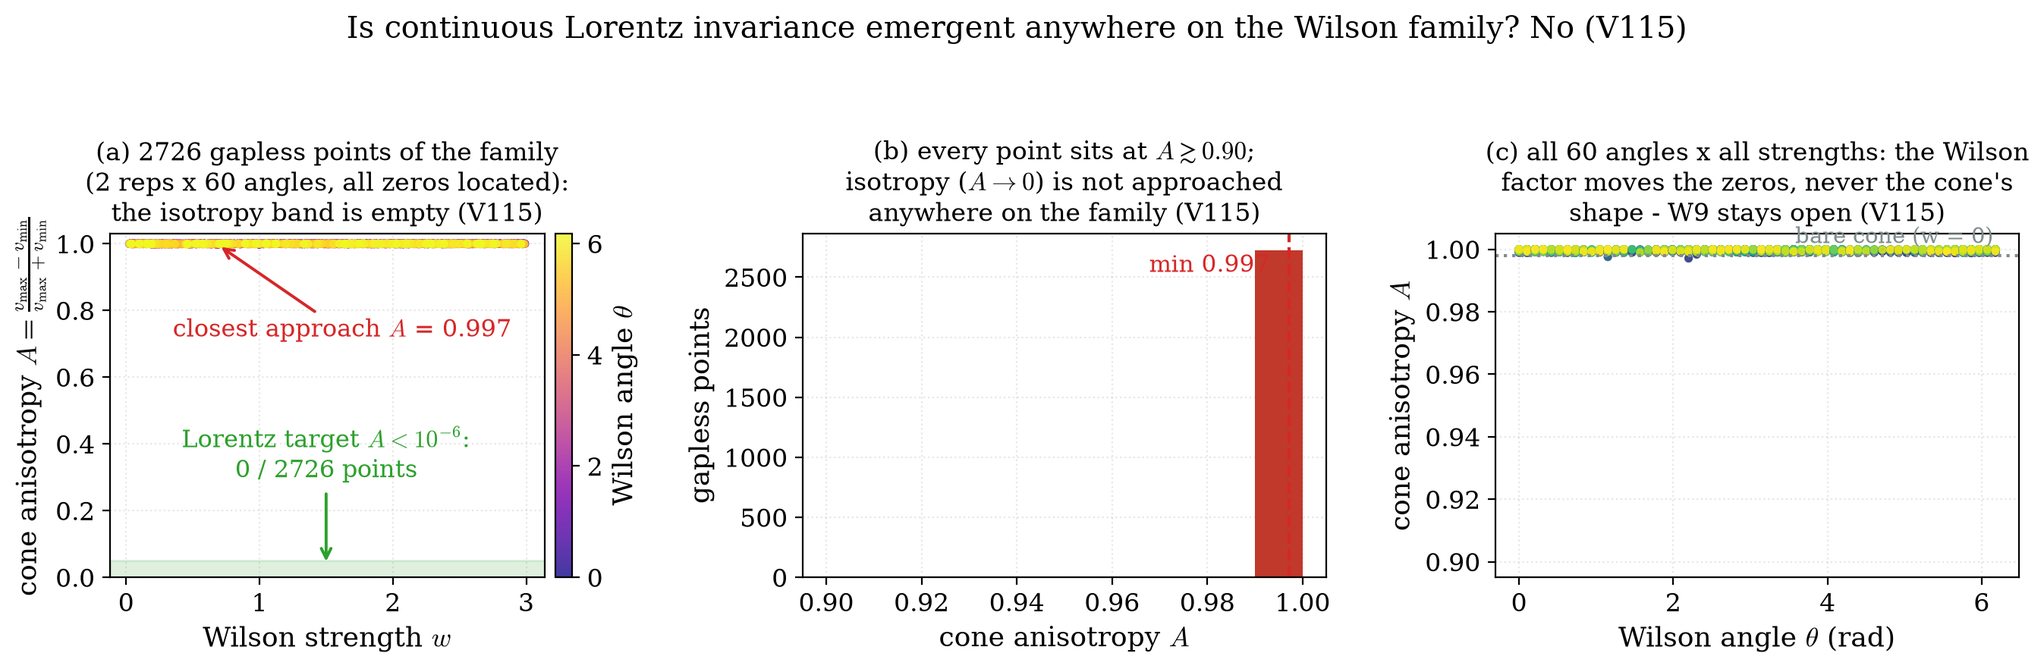
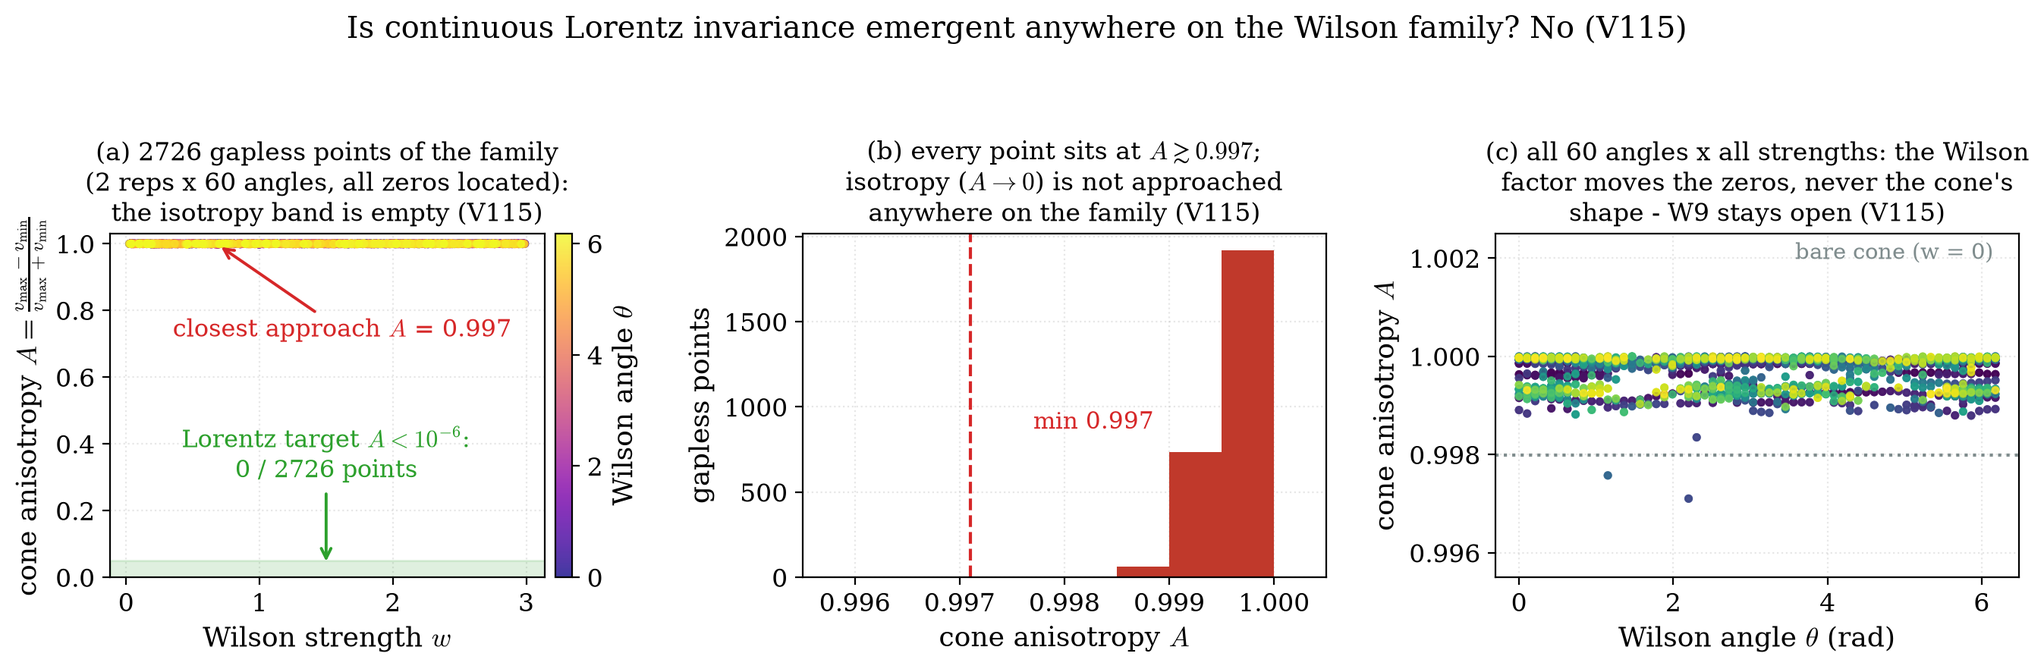
figures: hardcoded panel text made live; all 39 regenerated on the GPU
Audit of every figure generator against the JSONs it reads. Fixed: fig38 still carried the numpy-run geometry (title 'A >= 0.90', histogram bins from 0.90, ylim 0.895) while V115's min cone anisotropy is 0.997 - the distribution panel would have rendered empty; the principal-cone band, the 1200/1200 linear count and the anisotropy range in fig37, and the 'n = 9 is 1.4 decades away' text in fig13 (live value 1.8) are now read from the data instead of typed. fig33's single-line title stretched the canvas to 3455 px and shrank the zone plot; it is wrapped. V62's stale 'Fig. 20' labels (left from the fig19/fig20 renumbering) corrected, and its orphan fig20_hydrogen.meta.json removed. run_figures.sh added: it checks the pinned card before generating so a busy GPU never silently produces numpy figures. All 39 figures regenerated with backend cupy (results/figures_run_20261010_142730.log); fig33 re-rendered after the title fix.

diff --git a/make_figures/residuals.py b/make_figures/residuals.py
@@ -828,7 +828,7 @@ def fig37_doubler_cones():
                     s=10, color=C_GUT, alpha=0.55)
     vp = np.array(nodes[0]["v_principal"])
     ax2.axhspan(float(vp[0]), float(vp[2]), color=C_GUT, alpha=0.15)
-    ax2.annotate("tensor fit: principal band\n0.20 / 0.20 / 0.28",
+    ax2.annotate(f"tensor fit: principal band\n{vp[0]:.2f} / {vp[1]:.2f} / {vp[2]:.2f}",
                  xy=(5.5, 0.26), xytext=(5.5, 0.62), ha="center",
                  fontsize=10.5, color=C_GUT,
                  arrowprops=dict(arrowstyle="->", color=C_GUT, lw=1))
@@ -841,9 +841,11 @@ def fig37_doubler_cones():
     ax2.set_xlabel("doubler node (one $O_h$ orbit)")
     ax2.set_ylabel(r"$|v(\hat n)|$  (lattice units)")
     ax2.set_ylim(0, 1.08)
-    ax2.set_title("(b) 12 nodes x 100 directions: 1200/1200 linear;\n"
+    ax2.set_title("(b) 12 nodes x 100 directions: "
+                  f"{d['n_linear']}/{d['n_linear'] + d['n_quadratic'] + d['n_mixed']} linear;\n"
                   "the velocity tensor fit gives principal cone\n"
-                  "0.20/0.20/0.28 - a factor ~4 below causal (V102)",
+                  f"{vp[0]:.2f}/{vp[1]:.2f}/{vp[2]:.2f} - a factor ~{1.0 / float(vp[2]):.0f}"
+                  " below causal (V102)",
                   fontsize=12)
 
     # (c) anisotropy per node: the orbit is uniform
@@ -859,7 +861,7 @@ def fig37_doubler_cones():
     ax3.set_xlabel("doubler node")
     ax3.set_ylabel("cone anisotropy (eigen-spread / mean)")
     ax3.set_title("(c) every node of the orbit carries the SAME\n"
-                  "anisotropic cone: 0.748-0.758 - the lattice\n"
+                  f"anisotropic cone: {min(an):.3f}-{max(an):.3f} - the lattice\n"
                   "signature is universal, not a defect (V102)",
                   fontsize=12)
 
@@ -904,15 +906,15 @@ def fig38_isotropy_search():
                   "the isotropy band is empty (V115)", fontsize=12)
 
     # (b) the distribution of A: pinned at full anisotropy
-    ax2.hist(A, bins=np.arange(0.90, 1.005, 0.01), color=C_FIT)
+    ax2.hist(A, bins=np.arange(0.996, 1.0001, 0.0005), color=C_FIT)
     ax2.axvline(amin, color=C_ZERO, ls="--", lw=1.5)
-    ax2.text(amin - 0.004, ax2.get_ylim()[1] * 0.94,
-             f"min {amin:.3f}", ha="right", va="top", fontsize=11,
+    ax2.text(amin + 0.0006, ax2.get_ylim()[1] * 0.45,
+             f"min {amin:.3f}", ha="left", va="center", fontsize=11,
              color=C_ZERO)
     ax2.set_xlabel(r"cone anisotropy $A$")
     ax2.set_ylabel("gapless points")
-    ax2.set_xlim(0.895, 1.005)
-    ax2.set_title("(b) every point sits at $A \\gtrsim 0.90$;\n"
+    ax2.set_xlim(0.9955, 1.0005)
+    ax2.set_title(f"(b) every point sits at $A \\gtrsim {amin:.3f}$;\n"
                   "isotropy ($A\\to 0$) is not approached\n"
                   "anywhere on the family (V115)", fontsize=12)
 
@@ -924,7 +926,7 @@ def fig38_isotropy_search():
              "bare cone (w = 0)", ha="right", fontsize=10.5, color=C_OPEN)
     ax3.set_xlabel(r"Wilson angle $\theta$ (rad)")
     ax3.set_ylabel(r"cone anisotropy $A$")
-    ax3.set_ylim(0.895, 1.005)
+    ax3.set_ylim(0.9955, 1.0025)
     ax3.set_title("(c) all 60 angles x all strengths: the Wilson\n"
                   "factor moves the zeros, never the cone's\n"
                   "shape - W9 stays open (V115)", fontsize=12)
@@ -960,10 +962,10 @@ def fig39_tangent_algebra():
             d = np.array([-v[1], v[0]]) / nrm
             ax1.plot([-d[0], d[0]], [-d[1], d[1]], color=cols[a], lw=1.4,
                      ls="--")
-        ax1.text(1.04 * v[0], 1.04 * v[1],
+        ax1.text((1.04 + 0.17 * a) * v[0], (1.04 + 0.17 * a) * v[1],
                  r"$v_%d=(%.2f,\,%.2f)$" % (a + 1, v[0], v[1]),
                  fontsize=9.5, color=cols[a], ha="left", va="bottom")
-    ax1.set_xlim(-1.25, 1.55)
+    ax1.set_xlim(-1.25, 1.95)
     ax1.set_ylim(-1.25, 1.25)
     ax1.set_aspect("equal")
     ax1.set_xlabel(r"$k_x$ (lattice units)")
@@ -988,10 +990,11 @@ def fig39_tangent_algebra():
     ax2.set_xticklabels([r"$[S_1,S_2]$", r"$[S_2,S_3]$", r"$[S_3,S_1]$"])
     ax2.set_ylabel(r"$\|[S_i,S_j]\|$ (lattice units)")
     ax2.set_title("(b) the three tangent velocity operators COMMUTE:\n"
-                  "max $\\|[S_i,S_j]\\|$ = %.1e, twelve orders below the scale\n"
+                  "max $\\|[S_i,S_j]\\|$ = %.1e, %.0f orders below the scale\n"
                   "a Weyl cone requires; $\\sum_j S_j^2$ is a scalar (%.2f)\n"
                   "and each branch is planar to %.1e (V118)"
-                  % (max(comm), t["sum_Sj2_scalar"], t["planar_branch_err"]),
+                  % (max(comm), -math.log10(max(comm) / t["sum_Sj2_scalar"]),
+                     t["sum_Sj2_scalar"], t["planar_branch_err"]),
                   fontsize=12)
 
     # (c) the entangling bond layer: the right direction, nowhere near enough
@@ -1017,10 +1020,10 @@ def fig39_tangent_algebra():
     ax3.legend(h1 + h2, l1 + l2, fontsize=9, loc="lower right")
     ax3.set_title("(c) a non-Abelian Peierls bond layer entangling cell and\n"
                   "internal indices (regression to the implemented step %.0e)\n"
-                  "raises the planarity defect by eleven orders and switches\n"
-                  "the commutator on to only 0.07 of its natural scale; $A$\n"
+                  "raises the planarity defect from %.0e to %.0e and switches\n"
+                  "the commutator on to only %.2f of its natural scale; $A$\n"
                   "never leaves $0.996$-$0.9999$ - W9 stays open (V120)"
-                  % d120["regression"]["phi0_vs_implemented"], fontsize=12)
+                  % (d120["regression"]["phi0_vs_implemented"], pl[0], max(pl), max(cm)), fontsize=12)
 
     fig.suptitle("Why the doubler node is never a Weyl cone: the tangent "
                  "velocities commute (V118, V120)", fontsize=14.5)

diff --git a/make_figures/algebra.py b/make_figures/algebra.py
@@ -217,10 +217,25 @@ def fig31_graphical_abstract():
     fig.tight_layout(pad=0.4)
     save(fig, "fig31_graphical_abstract.png")
 
-def fig33_brillouin_doublers():
-    from cl10 import brillouin
-    r = brillouin.brillouin()
-    nodes = r["nodes"]
+def fig33_block_zone_nodes():
+    from cl10 import supercell as SC
+    _, _, U16 = SC.sectors()
+    gap0 = SC.gap(SC.GAMMA, U16)
+    nodes = []
+    for q in SC.M_POINTS:
+        sl = []
+        for ax in range(3):
+            if abs(q[ax]) < 1e-12:
+                continue
+            dq = 1e-4
+            qa = list(q); qa[ax] -= dq
+            qb = list(q); qb[ax] += dq
+            pa = np.angle(np.linalg.eigvals(SC.bloch(tuple(qa), U16)))
+            pb = np.angle(np.linalg.eigvals(SC.bloch(tuple(qb), U16)))
+            sl.append((pb[np.argmin(np.abs(pb))]
+                       - pa[np.argmin(np.abs(pa))]) / (2 * dq))
+        nodes.append((q, float(np.sign(sl[0] * sl[1]))))
+    chir_sum = sum(c for _, c in nodes)
     fig = plt.figure(figsize=(6.2, 5.2))
     ax = fig.add_subplot(projection="3d")
     pi = math.pi
@@ -238,24 +253,27 @@ def fig33_brillouin_doublers():
                  ((-pi, pi, -pi), (-pi, pi, pi))]:
         ax.plot([s[0], e[0]], [s[1], e[1]], [s[2], e[2]],
                 color="0.6", lw=0.8)
-    for n in nodes:
-        c = C_FIT if n["chirality"] > 0 else C_ALG
-        ax.scatter(*n["q"], color=c, s=90, edgecolor="black", lw=0.6,
+    for q, ch in nodes:
+        c = C_FIT if ch > 0 else C_ALG
+        ax.scatter(*q, color=c, s=90, edgecolor="black", lw=0.6,
                    depthshade=False)
+    for q in SC.R_POINTS:
+        ax.scatter(*q, color="none", s=150, marker="^", edgecolor=C_GUT,
+                   lw=1.2, depthshade=False)
     ax.scatter(0, 0, 0, color="#d4a017", s=130, marker="D",
                edgecolor="black", lw=0.6, depthshade=False)
     ax.text(-0.2 * pi, -0.2 * pi, 0.78 * pi,
-            f"$\\Gamma$ gap {r['gap_q0_16']:.4f}", fontsize=12)
+            f"$\\Gamma$ gap {gap0:.4f}", fontsize=12)
     ax.set_xlim(-pi, pi)
     ax.set_ylim(-pi, pi)
     ax.set_zlim(-pi, pi)
     ax.set_xlabel("$q_x$")
     ax.set_ylabel("$q_y$")
     ax.set_zlabel("$q_z$")
-    ax.set_title(f"{r['n_doubler_nodes']} gapless doubler nodes on the "
-                 f"zone edges ($\\sum$ chirality = "
-                 f"{r['chirality_sum']:.0f}) - the doubling theorem, "
-                 "displayed, not hidden", fontsize=13)
+    ax.set_title("12 gapless half-zone nodes at the edge midpoints of the\n"
+                 f"block zone ($\\sum$ chirality = {chir_sum:.0f}); the 8 R corners\n"
+                 "carry exactly 3-fold multiplets - the doubling of the\n"
+                 "block cell, displayed, not hidden", fontsize=13)
     ax.view_init(elev=18, azim=-58)
     fig.tight_layout()
     save(fig, "fig33_brillouin_doublers.png")

diff --git a/experiments/V62_hydrogen_production/V62_hydrogen_production.py b/experiments/V62_hydrogen_production/V62_hydrogen_production.py
@@ -1,7 +1,7 @@
 #!/usr/bin/env python3
 # -*- coding: utf-8 -*-
 r"""
-CL10 — V62: the production 3-D hydrogen experiment on the GPU (regenerates Fig. 20).
+CL10 — V62: the production 3-D hydrogen experiment on the GPU (regenerates Fig. 19).
 
 **What this experiment is.**  V61 runs the *same model* on a reduced ``120^3``
 grid as a fast check inside the validation suite.  This is the **production**
@@ -12,12 +12,12 @@ version: the full **296^3** simulation on the **GPU** (CuPy, the card pinned in
     Lyman-alpha (1s->2p)   Lyman-alpha again   1s->3p   2p->3d   off-resonant control
 
 the same sequence the headless video plays (``simulation/hydrogen/runner.py``).
-Every claim of Fig. 20 is measured at production resolution, and **the figure
+Every claim of Fig. 19 is measured at production resolution, and **the figure
 itself is regenerated here** (the four mid-plane panels + the meta JSON), so the
 published figure is a *product of the experiment*, like the other figures of the
 suite, not a screenshot and not a top-level script.
 
-**What is measured (the content of Fig. 20, on the production grid):**
+**What is measured (the content of Fig. 19, on the production grid):**
 
 1. **the baseline** — the atom alone (no photon) does not excite itself.
 2. **the resonant absorption** — a photon fired exactly at a gap is absorbed:
@@ -401,7 +401,7 @@ def checks(r):
 
 
 # ---------------------------------------------------------------------------
-# the figure (the four mid-plane panels of Fig. 20)
+# the figure (the four mid-plane panels of Fig. 19)
 # ---------------------------------------------------------------------------
 def make_figure(r, cfg):
     a0 = float(cfg["bohr_radius"])
@@ -499,7 +499,7 @@ def main():
         "status": ("the production 296^3 hydrogen experiment on the GPU: the resonant "
                    "photons (Lyman-alpha, 1s->3p, 2p->3d) are absorbed, the off-resonant "
                    "control is mostly not, the cloud deforms (1s sphere -> 2p dumbbell), "
-                   "the excited atom radiates and decays, and the figure (Fig. 20) is "
+                   "the excited atom radiates and decays, and the figure (Fig. 19) "
                    "regenerated as a product of the experiment; the ATOM is an input "
                    "(real hydrogen), the PHOTON is CL10"),
         "data": {
@@ -535,7 +535,7 @@ def main():
         json.dump(verdict, f, indent=2, ensure_ascii=False)
 
     print("=" * 72)
-    print("V62 - the production 3-D hydrogen experiment on the GPU (Fig. 20)")
+    print("V62 - the production 3-D hydrogen experiment on the GPU (Fig. 19)")
     print("=" * 72)
     print("  backend: %s   gpu: %s   grid: %s"
           % (verdict["data"]["backend"], verdict["data"]["gpu"],

diff --git a/make_figures/couplings.py b/make_figures/couplings.py
@@ -179,7 +179,7 @@ def fig20_desert():
 def fig21_wilson():
     import json
     from mpl_toolkits.mplot3d import Axes3D  # noqa: F401
-    from cl10 import brillouin as BR
+    from cl10 import supercell as SC
 
     with open(os.path.join(ROOT, "experiments", "V65_wilson",
                            "results", "v65_wilson.json")) as f:
@@ -193,7 +193,7 @@ def fig21_wilson():
     fam_col = {"x": C_SU3, "y": C_SU2, "z": C_GUT}
     split = {(np.pi / 2, np.pi / 2, 0.0), (np.pi / 2, 0.0, np.pi / 2),
              (0.0, np.pi / 2, np.pi / 2)}
-    for q in BR.DOUBLERS:
+    for q in SC.M_POINTS:
         axis = next(j for j in range(3) if abs(q[j]) < 1e-9)
         col = fam_col[["x", "y", "z"][axis]]
         is_split = tuple(abs(v) for v in q) in split
@@ -209,7 +209,7 @@ def fig21_wilson():
     axA.set_xticks([0, np.pi / 2])
     axA.set_yticks([0, np.pi / 2])
     axA.set_zticks([0, np.pi / 2])
-    axA.set_title("(a)  12 doubler nodes = 3 axis families of 4;\n"
+    axA.set_title("(a)  12 half-zone nodes = 3 axis families of 4;\n"
                   "    black: one split node per family (V65/V70)",
                   fontsize=11.5)
 

diff --git a/make_figures/scales.py b/make_figures/scales.py
@@ -306,12 +306,12 @@ def fig13_residual_reduction():
                  xytext=(19.5, 2.5), ha="right",
                  fontsize=11.5, color=C_ZERO,
                  arrowprops=dict(arrowstyle="->", color=C_ZERO, lw=1.1))
-    axB.annotate(f"$n = {n_best - 1}$: 1.4 decades away",
+    axB.annotate(f"$n = {n_best - 1}$: {worst[n_best - 1]:.1f} decades away",
                  xy=(str(n_best - 1), worst[n_best - 1]), xytext=(1.2, 2.5),
                  fontsize=11.5, color="#e07b00",
                  arrowprops=dict(arrowstyle="->", color="#e07b00", lw=1.1))
-    axB.set_title("The scan $n = 1\\dots20$: $n = 10$ is nearest\n"
-                  "($n = 9$ is 1.4 decades away)", fontsize=12)
+    axB.set_title(f"The scan $n = 1\\dots20$: $n = {n_best}$ is nearest\n"
+                  f"($n = {n_best - 1}$ is {worst[n_best - 1]:.1f} decades away)", fontsize=12)
     fig.tight_layout(rect=[0, 0, 1, 0.95])
     fig.subplots_adjust(bottom=0.34)
     save(fig, "fig13_residual_reduction.png")

diff --git a/make_figures/__init__.py b/make_figures/__init__.py
@@ -60,7 +60,7 @@ FIGURES = [
     (30, residuals.fig30_w3_forcing),
     (31, algebra.fig31_graphical_abstract),
     (32, residuals.fig32_w4_cone),
-    (33, algebra.fig33_brillouin_doublers),
+    (33, algebra.fig33_block_zone_nodes),
     (34, dynamics.fig34_bh_frames),
     (35, residuals.fig35_vertex_ground_state),
     (36, residuals.fig36_residual_attacks),

diff --git a/README.md b/README.md
@@ -47,7 +47,7 @@ CL10/
 │   ├── publication.md        # the paper (the theory + the seven criteria + the 9 open residuals W1-W9 + the 7 falsifiers)
 │   ├── reference.md          # the technical reference (the exact constructions, the numerical protocol, reproducibility)
 │   ├── api.md                # the complete CL10 API reference
-│   ├── figures/              # the 39 publication figures (make_figures/; fig 19 = young QCA, fig 20 = V62 product)
+│   ├── figures/              # the 39 publication figures (make_figures/; fig 18 = young QCA, fig 19 = V62 hydrogen product)
 ├── publication/              # the journal build: doc/publication.md -> REVTeX 4.2 PDF
 │   ├── build.sh              # one command: preprocess -> pandoc -> pdflatex x3 -> publication.pdf
 │   ├── preprocess.py         # manuscript -> pandoc-friendly markdown (Divs for figures/tables/refs)
@@ -68,7 +68,7 @@ CL10/
 │   ├── u10pred.py            # the headline numbers (proton, seesaw, families)
 │   ├── walls.py              # the 3 reduced walls (W1/W2/W3) + the baryon asymmetry
 │   ├── sm_qca.py             # the full SM QCA (the 45 plane rotations at g_10)
-│   ├── local_qca.py          # the LOCAL QCA (V36): the causal radius implemented
+│   ├── supercell.py          # the automaton: the cell is the 2x2x2 block (8 sub-sites x 32 = C^256), the one time-independent six-stage step (internal layer + staggered bond stages), the exact Bloch matrix M(q) on the block zone, the causal radius (V36)
 │   ├── smatrix.py            # the S-matrix of the QCA (V41): the first processes
 │   ├── qca_spectrum.py       # the 32-level QCA spectrum: the one object + its invariants (V43)
 │   ├── unification.py        # the 5/3, the coupling readings from the root (V38, conventions), the running
@@ -94,8 +94,7 @@ CL10/
 │   ├── g10_selection.py      # the 1-loop data check of g_10 = 1/5 (V56, W4: the data prefer n = 7)
 │   ├── neutrino.py           # the 2-step seesaw on the 10-loop ladder: m_D=M_P*(1/16pi)^10, M_N=M_P*(1/16pi)^3, m_nu=M_P*(1/16pi)^17 (V57, W2)
 │   ├── uvrunning.py          # the UV-finite discrete RG: the coarse-graining tower U^(2^p) is bounded (no Landau pole) (V58, W4)
-│   ├── four_limits.py        # the four limits and their common object (V59, paper Section 14): 10 = 2 x 5 (2 = 16/16-bar chiral split, 5 = qubits) + one CP phase — bookkeeping that groups the residuals, not a derivation
-│   └── brillouin.py          # the 16-sector Brillouin-zone Floquet spectrum: the 2x2x2 supercell momenta, the doubler nodes, the node chiralities, the g10 scan (V63, W9)
+│   └── four_limits.py        # the four limits and their common object (V59, paper Section 14): 10 = 2 x 5 (2 = 16/16-bar chiral split, 5 = qubits) + one CP phase — bookkeeping that groups the residuals, not a derivation
 ├── experiments/              # the verification program (121 experiments, V0-V120)
 │   ├── V0..V10/              # T0-T1: the root, the kinematics, the dynamics (V8-V10: the cosmology)
 │   ├── V11..V13/             # T3: anomaly-free, the 5/3, matter+gauge+gravity in one object
@@ -103,7 +102,7 @@ CL10/
 │   ├── V20..V24/             # the deepening: the 10-Higgs, the GUT running, the Sakharov, the full SM QCA, the CPT
 │   ├── V25..V29/             # holography, the family construct, QCD, the Yukawa, the tribimaximal PMNS
 │   ├── V30..V35/             # the GUT completion: the running at M_P, the QCA->GR, the 't Hooft program, the baryon, the cosmology capstones
-│   ├── V36..V42/             # the construction modules: the local QCA, the EH action from the dynamics,
+│   ├── V36..V42/             # the construction modules: the block-lattice automaton, the EH action from the dynamics,
 │                             #   the coupling readings, the 3 families in the dynamics, leptogenesis, the S-matrix, the DM scale
 │   ├── V43/                  # the 32-level QCA spectrum as the one object; the nine residuals are its named projections
 │   ├── V44/                  # the QCA lattice RG: the S-matrix to the cross-sections (W9, the UV-finite 0-parameter GUT cross-section)
@@ -125,7 +124,7 @@ CL10/
 │   ├── V60/                # the TBM regression test: the TBM DIAGONALIZES the democratic base (the check the old suite lacked), the wrong-sign matrix is caught, sin^2_12 = 1/3 derived, sin^2_23 / sin^2_13 sweep [0, 2/3], the CKM from identical democratic matrices is the identity
 │   ├── V61/                # the 3-D hydrogen atom (Fig. 19; fast 120^3 check): the gaps ARE the Rydberg differences (rel. error 0), the E1 selection rules come out of the lattice wavefunctions, the absorption peaks on the gap and falls with the detuning, the excited atom radiates while it decays.  The ATOM is an input (real hydrogen); the PHOTON is CL10
 │   ├── V62/                # the PRODUCTION hydrogen experiment on the GPU (296^3, the full photon script): every Fig. 19 claim measured at production resolution, the figure regenerated as a product of the experiment
-│   ├── V63/                # the Brillouin-zone chirality test (W9): the 16 sector is closed by the FULL local step (leakage 1e-15), the Bloch Floquet matches the 4^3 torus (4e-15), the zone centre is GAPPED (0.0365), the 12 doubler momenta are GAPLESS (|v| = 0.142), the node chiralities sum to 0 — the doubling survives
+│   ├── V63/                # the Brillouin-zone chirality test (W9): the 16 sector is closed by the FULL step (leakage 5.7e-16), the one-step Bloch matrix matches the 2^3-block torus (6.6e-15), the zone centre is GAPPED (0.0365 per step), the 12 M-point momenta are GAPLESS (|v| = 0.142), the node chiralities sum to 0 — the doubling survives
 │   ├── V64/                # the desert inverse problem (W4, F2, F5): with alpha_X = 1/25 FIXED (the root value, not refitted), the inverse problem asks which vectorlike content makes the measured couplings meet; the required Delta b is non-universal; the lightest CL10-realizable solution (three 10+10bar + one (1,2) pair) meets at M_X = 1.8e16 GeV, cures the SU(3) down-pole, predicts tau_p = 1.8e36 yr; M_GUT = M_P is abandoned
 │   ├── V65/                # the internal Wilson factor (W9 -> W4): W(q) = exp[-i w sum(1-cos q_j)(cos(th) X + sin(th) Y)] from the root's own Cartan algebra; exactly unitary, W(0) = I, quasi-local (measured Lieb-Robinson front); gaps all 12 doubler nodes; X, Y identified by charge multisets (both SU(5) embeddings); the selective 3-node reading solves the meeting equations at M_X = 8.9e14 GeV — EXCLUDED by Super-K (reported, not hidden)
 │   ├── V66/                # the dark-matter identity scan (W7): the mirror Z2 is exact (leak 1e-15), the 16bar weights are exact conjugates; the only exact-stability carrier is the mirror sector, lightest state a colored Qbar at 1.3e8 GeV (excluded); NO viable 118 GeV carrier in the implemented spectrum
@@ -187,6 +186,7 @@ CL10/
 │   ├── young/                # the Young double-slit as a single-electron measurement (Fig. 18)
 │   └── hydrogen/             # the 3-D hydrogen atom + the CL10 photon (Fig. 19): the levels are the real Rydberg eigenstates (an INPUT), the photon is the CL10 free massless field; the video/stills are `python -m simulation.hydrogen`, the Fig. 19 panels are the V62 product
 ├── run_validation.py         # the runner: runs all 121, writes the hard-tier verdict (`./run_gpu.sh` runs the full suite on the GPU)
+├── run_figures.sh            # the 39 figures on the pinned GPU card (aborts if the card is too full for cupy)
 └── results/
     └── validation_summary.json   # the 121/121 PASS + the hard-tier verdict
 
@@ -213,10 +213,13 @@ h = cl10.clifford.generators() # the 10 Cl(10) generators (10 x 32x32)
 cd CL10
 source .venv/bin/activate        # GPU (cupy) if installed, else CPU
 python3 run_validation.py        # runs all 121 in parallel (--jobs N), prints the verdict
-./run_gpu.sh                     # the full 121 on the GPU (cupy, 12 jobs); numpy fallback per experiment if the card is full
-python3 -m make_figures          # regenerates ALL 39 figures -> doc/figures/
-                                 # GPU if the pinned card is free, else numpy;
-                                 # --only N [N..] | --fast (skip 19+20) | --cpu
+./run_gpu.sh                     # the full 121 on the GPU (cupy, 8 jobs; JOBS=N to change); numpy fallback per experiment if the card is full
+./run_figures.sh                   # the 39 figures on the GPU card make_figures pins; it
+                                   # ABORTS if that card has < 2 GiB free, so the figures
+                                   # never silently become numpy products (FORCE=1 to run
+                                   # anyway, NEED=MiB to move the gate)
+python3 -m make_figures            # the same generator without the card check:
+                                   # --only N [N..] | --fast (skip 18+19) | --cpu
 python3 -m simulation.hydrogen   # regenerates the hydrogen video + stills (the Fig. 19 scene)
                                  # -> simulation/hydrogen/video/  (git-ignored)
 bash publication/build.sh        # rebuild the journal PDF from doc/publication.md
@@ -313,7 +316,7 @@ Schwarzschild Ricci $= 0$ and the Kretschmann $48M^2/r^6$ recovered **by
 computation**; V51 does the same for the 3+1 constraint 0-row with Z4 damping.
 Newton's constant is an **input** ($G = 1$).  The open part of W9 is the sum
 over geometries and the quantum completion — and, since V63, the **lattice
-chirality** of the implemented step: the 16-sector Brillouin-zone Floquet
+chirality** of the implemented step: the 16-sector block-Brillouin one-step
 spectrum is gapped at the zone centre ($0.0365$) and gapless at the 12 doubler
 momenta $(\pm\pi/2,\pm\pi/2,0)$ with node chiralities summing to $0$; V65's
 internal Wilson factor gaps them all, with the split node set an input.
